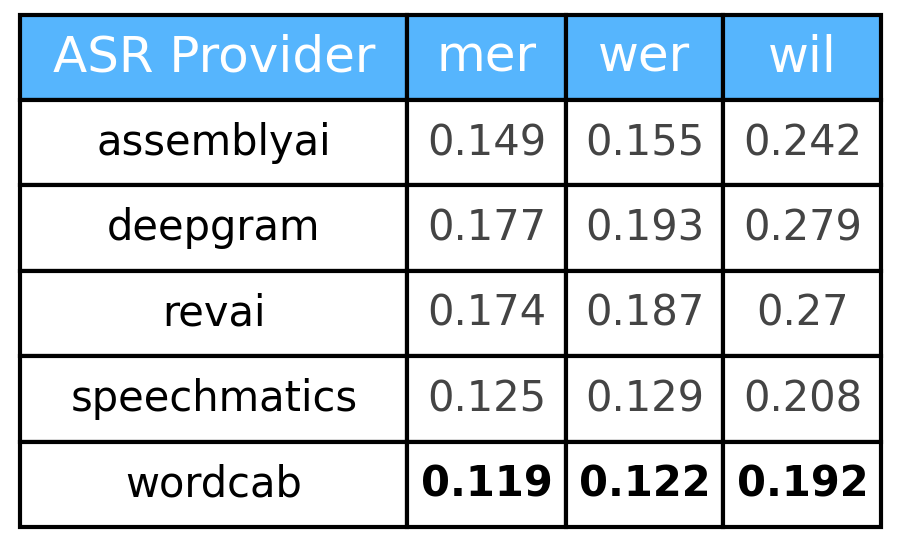
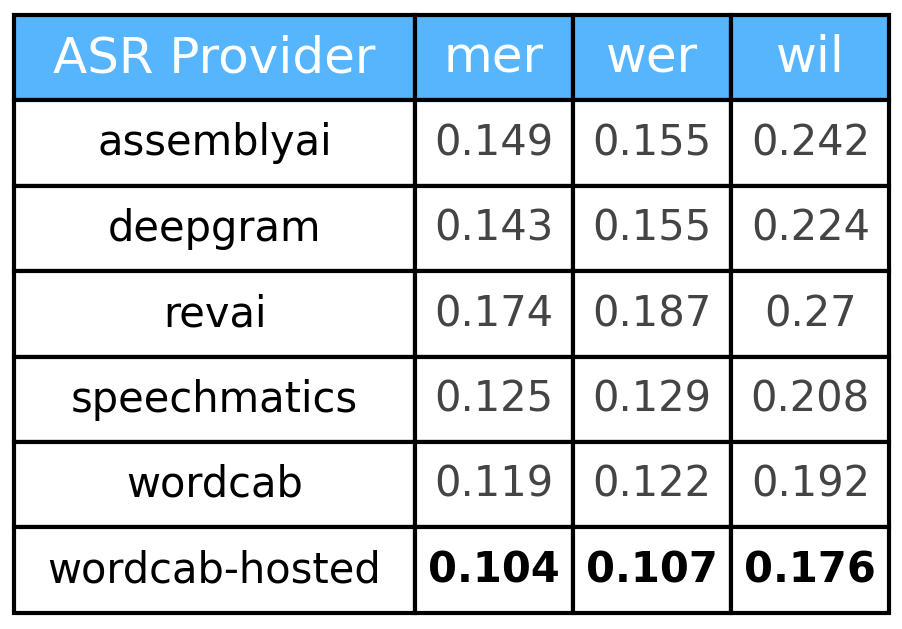
update DeepgramWER and WRR results

diff --git a/README.md b/README.md
@@ -24,6 +24,9 @@
 
 ## Results
 
+> [!IMPORTANT]\
+> Deepgram benchmark results have been updated with the latest Nova 2 model.
+
 ### WER & WRR
 
 `wer` = Word Error Rate, `mer` = Match Error Rate, `wil` = Word Information Lost, `wrr` = Word Recognition Rate
